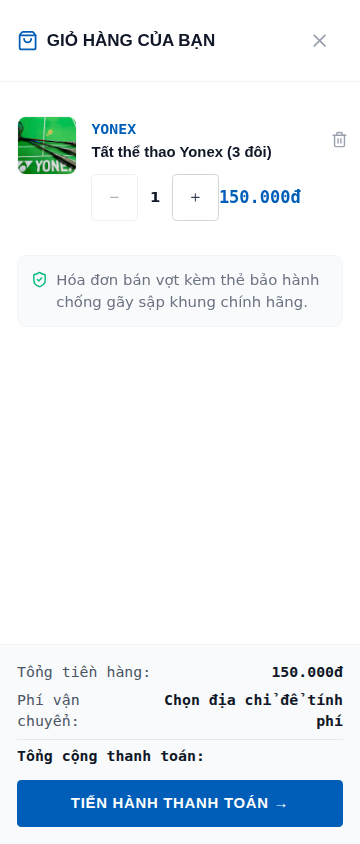
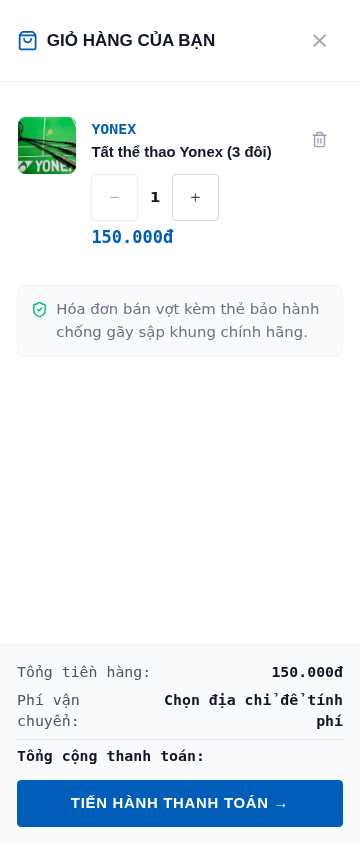
agmx run 7e65c2c0-d40a-4b55-83da-bd55362a0181

diff --git a/src/components/CartModal.tsx b/src/components/CartModal.tsx
@@ -626,7 +626,7 @@ export default function CartModal({ isOpen, onClose, cartItems, onRemoveItem, on
                       return (
                         <div key={item.id} className="py-4 flex gap-3.5" data-testid="cart-line">
                           <img src={item.image} alt={item.name} className="w-14 h-14 object-contain rounded-lg bg-gray-50 border border-gray-100 shrink-0" referrerPolicy="no-referrer" />
-                          <div className="flex-1 space-y-1">
+                          <div className="flex-1 space-y-1 max-md:min-w-0">
                             <span className="text-[10px] font-mono font-bold text-brand-primary uppercase max-md:text-sm">{item.brand}</span>
                             <h4 className="font-bold text-xs text-gray-900 line-clamp-1 leading-normal max-md:text-sm">{item.name}</h4>
 
@@ -654,7 +654,7 @@ export default function CartModal({ isOpen, onClose, cartItems, onRemoveItem, on
                               <p className="text-[10px] text-red-600 font-semibold max-md:text-sm">{warningMessage}</p>
                             )}
 
-                            <div className="flex justify-between items-center pt-1.5">
+                            <div className="flex justify-between items-center pt-1.5 max-md:flex-wrap max-md:gap-y-1">
                               <div className="flex items-center gap-2 text-xs text-gray-400 max-md:text-sm">
                                 <button
                                   type="button"

diff --git a/src/__tests__/stor147_cart_checkout_mobile.test.tsx b/src/__tests__/stor147_cart_checkout_mobile.test.tsx
@@ -99,6 +99,11 @@ describe('STOR-147 bước 1 (giỏ): nút đóng, tăng/giảm, xoá, nhãn', (
     guard(screen.getByRole('button', { name: 'Tăng số lượng' }), 'quantity plus', ...MIN_TAP);
     guard(screen.getByTitle('Xóa sản phẩm'), 'remove item', 'max-md:min-w-11', 'max-md:min-h-11', 'max-md:flex', 'max-md:items-center', 'max-md:justify-center');
     guard(screen.getByRole('button', { name: /Tiến hành thanh toán/ }), 'checkout CTA', 'max-md:text-sm', 'max-md:min-h-11');
+    // Round-1 finding 26b59220: the 44px −/+/remove widen the row past the drawer at 360px unless the middle column
+    // may shrink and the qty/price row may wrap (measured by docs/stor147-shots/measure.cjs cart-long).
+    const qtyRow = screen.getByRole('button', { name: 'Giảm số lượng' }).parentElement!.parentElement as HTMLElement;
+    guard(qtyRow, 'qty/price row', 'max-md:flex-wrap', 'max-md:gap-y-1');
+    guard(qtyRow.parentElement, 'cart line middle column', 'max-md:min-w-0');
     guard(screen.getByText(/Đan cước|Phân loại|SL:/, { selector: 'p' }).closest('div')!, 'cart line text', 'max-md:text-sm');
   });
 
